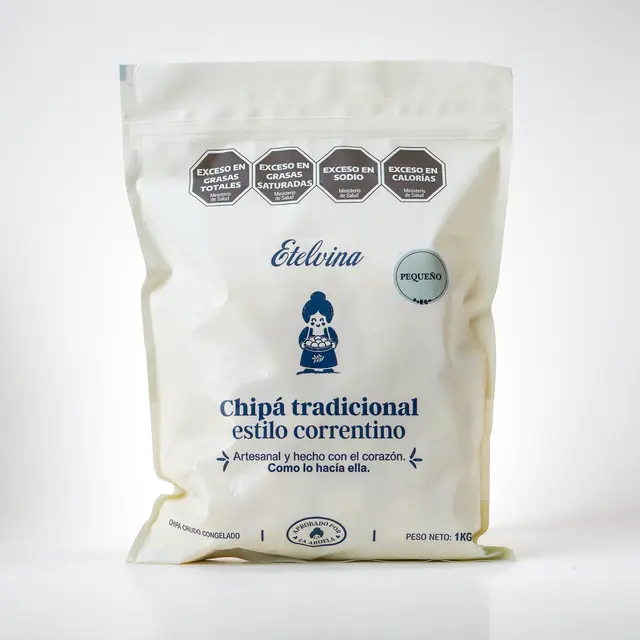
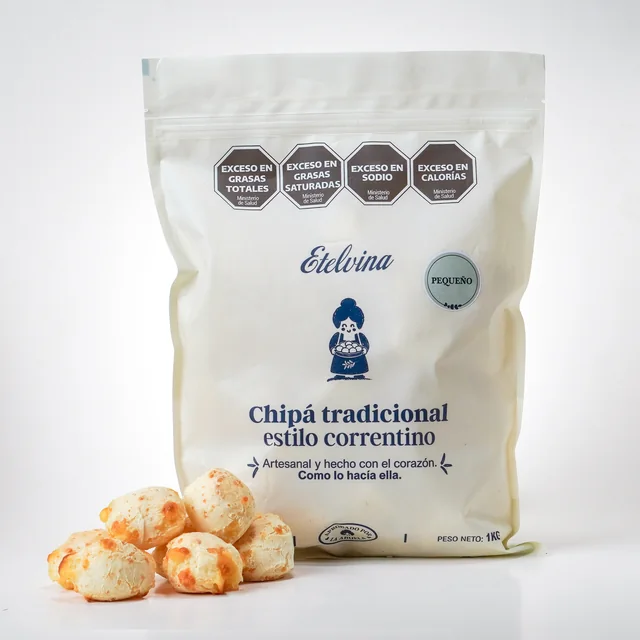
Nuevas fotos de la bolsa de 1 kg (pequeño, mediano, grande)
Claude-Session: https://claude.ai/code/session_01MRHbbmiBih28bLt63FLMr5

Changed region(s): [[0.0625, 0.0625, 0.875, 0.9688], [0.5625, 0.0625, 0.6875, 0.0938], [0.6562, 0.5625, 0.6875, 0.5938]]

diff --git a/index.html b/index.html
@@ -186,7 +186,7 @@
 
           <li class="prod" data-prod data-kg="1">
             <div class="prod__media">
-              <img data-prod-img src="/assets/img/bolsa-1kg-mediano-640.webp?v=3" srcset="/assets/img/bolsa-1kg-mediano-640.webp?v=3 640w, /assets/img/bolsa-1kg-mediano-1200.webp?v=3 1200w" sizes="(min-width: 960px) 30vw, 72vw" alt="Bolsa de 1 kg de chipá Etelvina, tamaño mediano" width="1200" height="1200" loading="lazy">
+              <img data-prod-img src="/assets/img/bolsa-1kg-mediano-640.webp?v=4" srcset="/assets/img/bolsa-1kg-mediano-640.webp?v=4 640w, /assets/img/bolsa-1kg-mediano-1200.webp?v=4 1200w" sizes="(min-width: 960px) 30vw, 72vw" alt="Bolsa de 1 kg de chipá Etelvina, tamaño mediano" width="1200" height="1200" loading="lazy">
               <span class="prod__tag">Para la casa</span>
             </div>
             <div class="prod__body">
@@ -214,7 +214,7 @@
 
           <li class="prod" data-prod data-kg="2">
             <div class="prod__media">
-              <img data-prod-img src="/assets/img/bolsa-2kg-mediano-640.webp?v=3" srcset="/assets/img/bolsa-2kg-mediano-640.webp?v=3 640w, /assets/img/bolsa-2kg-mediano-1200.webp?v=3 1200w" sizes="(min-width: 960px) 30vw, 72vw" alt="Bolsa de 2 kg de chipá Etelvina, tamaño mediano" width="1200" height="1200" loading="lazy">
+              <img data-prod-img src="/assets/img/bolsa-2kg-mediano-640.webp?v=4" srcset="/assets/img/bolsa-2kg-mediano-640.webp?v=4 640w, /assets/img/bolsa-2kg-mediano-1200.webp?v=4 1200w" sizes="(min-width: 960px) 30vw, 72vw" alt="Bolsa de 2 kg de chipá Etelvina, tamaño mediano" width="1200" height="1200" loading="lazy">
               <span class="prod__tag">Para la familia</span>
             </div>
             <div class="prod__body">
@@ -242,7 +242,7 @@
 
           <li class="prod" data-prod data-kg="5">
             <div class="prod__media">
-              <img data-prod-img src="/assets/img/bolsa-5kg-mediano-640.webp?v=3" srcset="/assets/img/bolsa-5kg-mediano-640.webp?v=3 640w, /assets/img/bolsa-5kg-mediano-1200.webp?v=3 1200w" sizes="(min-width: 960px) 30vw, 72vw" alt="Bolsa de 5 kg de chipá Etelvina, tamaño mediano" width="1200" height="1200" loading="lazy">
+              <img data-prod-img src="/assets/img/bolsa-5kg-mediano-640.webp?v=4" srcset="/assets/img/bolsa-5kg-mediano-640.webp?v=4 640w, /assets/img/bolsa-5kg-mediano-1200.webp?v=4 1200w" sizes="(min-width: 960px) 30vw, 72vw" alt="Bolsa de 5 kg de chipá Etelvina, tamaño mediano" width="1200" height="1200" loading="lazy">
               <span class="prod__tag">Para eventos y gastronomía</span>
             </div>
             <div class="prod__body">
@@ -578,7 +578,7 @@
     <symbol id="i-wa" viewBox="0 0 24 24"><path fill="currentColor" d="M19.05 4.91A9.82 9.82 0 0 0 12.04 2C6.58 2 2.13 6.45 2.13 11.91c0 1.75.46 3.45 1.32 4.95L2.05 22l5.25-1.38c1.45.79 3.08 1.21 4.74 1.21 5.46 0 9.91-4.45 9.91-9.91 0-2.65-1.03-5.14-2.9-7.01Zm-7.01 15.24c-1.48 0-2.93-.4-4.2-1.15l-.3-.18-3.12.82.83-3.04-.2-.31a8.26 8.26 0 0 1-1.26-4.38c0-4.54 3.7-8.24 8.24-8.24 2.2 0 4.27.86 5.82 2.42a8.18 8.18 0 0 1 2.41 5.83c.01 4.54-3.68 8.23-8.22 8.23Zm4.52-6.16c-.25-.12-1.47-.72-1.69-.81-.23-.08-.39-.12-.56.12-.17.25-.64.81-.78.97-.14.17-.29.19-.54.06-.25-.12-1.05-.39-1.99-1.23-.74-.66-1.23-1.47-1.38-1.72-.14-.25-.02-.38.11-.51.11-.11.25-.29.37-.43.12-.14.17-.25.25-.41.08-.17.04-.31-.02-.43-.06-.12-.56-1.34-.76-1.84-.2-.48-.41-.42-.56-.43h-.48c-.17 0-.43.06-.66.31-.22.25-.86.85-.86 2.07 0 1.22.89 2.4 1.01 2.56.12.17 1.75 2.67 4.23 3.74.59.26 1.05.41 1.41.52.59.19 1.13.16 1.56.1.48-.07 1.47-.6 1.67-1.18.21-.58.21-1.07.14-1.18-.06-.1-.22-.16-.47-.28Z"/></symbol>
   </svg>
 
-  <script src="/assets/js/main.js?v=45" defer></script>
+  <script src="/assets/js/main.js?v=46" defer></script>
   <script src="/assets/js/chipas.js?v=45" defer></script>
   <script src="/assets/js/viaje.js?v=45" defer></script>
 </body>

diff --git a/assets/js/main.js b/assets/js/main.js
@@ -33,7 +33,7 @@
   const IMG = { 1: 1, 2: 1, 5: 1 }; // bolsas disponibles
   const SLUG = { 'pequeño': 'pequeno', mediano: 'mediano', grande: 'grande' };
   // cada bolsa tiene foto propia para cada tamaño de chipá
-  const imgFor = (kg, size) => `/assets/img/bolsa-${kg}kg-${SLUG[size]}-640.webp?v=3`;
+  const imgFor = (kg, size) => `/assets/img/bolsa-${kg}kg-${SLUG[size]}-640.webp?v=4`;
   const MAX_QTY = 50;
   const cardSyncs = [];
   const store = {
@@ -119,14 +119,14 @@
     const addBtn = $('[data-add]', card);
     const size = () => ($('input[type=radio]:checked', card) || {}).value || 'mediano';
     const photo = $('[data-prod-img]', card);
-    if (photo) Object.values(SLUG).forEach((sl) => { const im = new Image(); im.src = `/assets/img/bolsa-${kg}kg-${sl}-640.webp?v=3`; });
+    if (photo) Object.values(SLUG).forEach((sl) => { const im = new Image(); im.src = `/assets/img/bolsa-${kg}kg-${sl}-640.webp?v=4`; });
     const sync = () => {
       const s = size(); const q = qtyOf(kg, s); const n = PER_KG[s] * kg;
       if (photo) {
         const base = `/assets/img/bolsa-${kg}kg-${SLUG[s]}`;
         if (!photo.src.includes(base)) {
-          photo.srcset = `${base}-640.webp?v=3 640w, ${base}-1200.webp?v=3 1200w`;
-          photo.src = `${base}-640.webp?v=3`;
+          photo.srcset = `${base}-640.webp?v=4 640w, ${base}-1200.webp?v=4 1200w`;
+          photo.src = `${base}-640.webp?v=4`;
           photo.alt = `Bolsa de ${kg} kg de chipá Etelvina, tamaño ${s}`;
         }
       }
